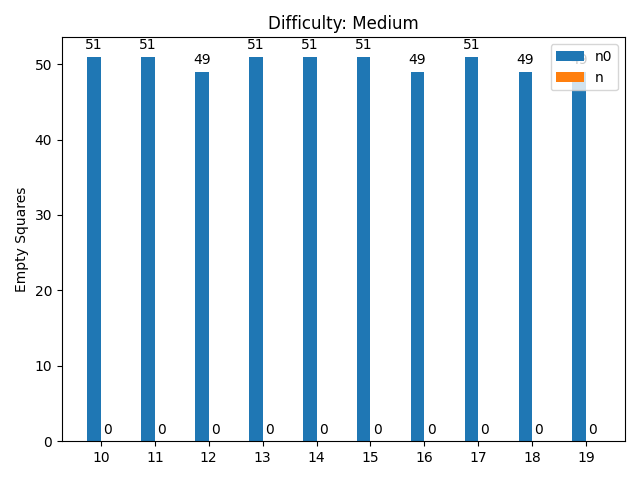
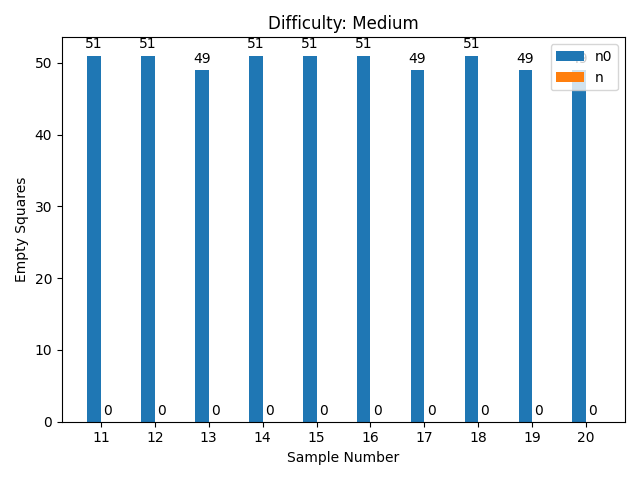
Final draft

diff --git a/Program/sudoku_hybrid_alg/main.py b/Program/sudoku_hybrid_alg/main.py
@@ -12,7 +12,8 @@ n0list = []
 nlist = []
 
 print(len(sudokus))
-x = [i for i in range(len(sudokus) - 5)]
+x = [i for i in range(len(sudokus) - 4)]
+x.pop(0)
 
 for i in range(len(sudokus)):
     start = time.time()
@@ -66,6 +67,9 @@ plt.plot(x[:10], y2[:10],"g--")
 plt.plot(x[9:20], y2[9:20],"y--")
 
 plt.title("Easy - Medium")
+plt.xlabel("Sample")
+plt.ylabel("Time in Secs")
+plt.xticks([0, 2, 4, 6, 8, 10, 12, 14, 16, 18, 20], ["0", "2", "4", "6", "8", "10", "12", "14", "16", "18", "20"])
 plt.legend()
 plt.show()
 
@@ -81,6 +85,12 @@ plt.plot(x[29:40], y2[29:40],"r--")
 plt.plot(x[39:50], y2[39:50],"m--")
 
 plt.title("Hard - Expert - Evil")
+# l = np.arange(1, 51, 5)
+# ax = plt.gca()
+# ax.set(xticks=l, xticklabels=l)
+plt.xlabel("Sample")
+plt.ylabel("Time in Secs")
+plt.xticks([20,22, 24, 26, 28, 30, 32, 34, 36, 38, 40,42,44,46,48,50], ["20","22", "24", "26", "28", "30", "32", "34", "36", "38", "40","42","44","46","48","50"])
 plt.legend()
 plt.show()
 
@@ -96,6 +106,7 @@ rects1 = ax.bar(x1 - width/2, n0list[:10], width, label='n0')
 rects2 = ax.bar(x1 + width/2, nlist[:10], width, label='n')
 
 ax.set_ylabel('Empty Squares')
+ax.set_xlabel('Sample Number')
 ax.set_title('Difficulty: Easy')
 ax.set_xticks(x1)
 ax.set_xticklabels(x[:10])
@@ -118,6 +129,7 @@ rects1 = ax.bar(x1 - width/2, n0list[10:20], width, label='n0')
 rects2 = ax.bar(x1 + width/2, nlist[10:20], width, label='n')
 
 ax.set_ylabel('Empty Squares')
+ax.set_xlabel('Sample Number')
 ax.set_title('Difficulty: Medium')
 ax.set_xticks(x1)
 ax.set_xticklabels(x[10:20])
@@ -140,6 +152,7 @@ rects1 = ax.bar(x1 - width/2, n0list[20:30], width, label='n0')
 rects2 = ax.bar(x1 + width/2, nlist[20:30], width, label='n')
 
 ax.set_ylabel('Empty Squares')
+ax.set_xlabel('Sample Number')
 ax.set_title('Difficulty: Hard')
 ax.set_xticks(x1)
 ax.set_xticklabels(x[20:30])
@@ -162,6 +175,7 @@ rects1 = ax.bar(x1 - width/2, n0list[30:40], width, label='n0')
 rects2 = ax.bar(x1 + width/2, nlist[30:40], width, label='n')
 
 ax.set_ylabel('Empty Squares')
+ax.set_xlabel('Sample Number')
 ax.set_title('Difficulty: Expert')
 ax.set_xticks(x1)
 ax.set_xticklabels(x[30:40])
@@ -184,6 +198,7 @@ rects1 = ax.bar(x1 - width/2, n0list[40:50], width, label='n0')
 rects2 = ax.bar(x1 + width/2, nlist[40:50], width, label='n')
 
 ax.set_ylabel('Empty Squares')
+ax.set_xlabel('Sample Number')
 ax.set_title('Difficulty: Evil')
 ax.set_xticks(x1)
 ax.set_xticklabels(x[40:50])
